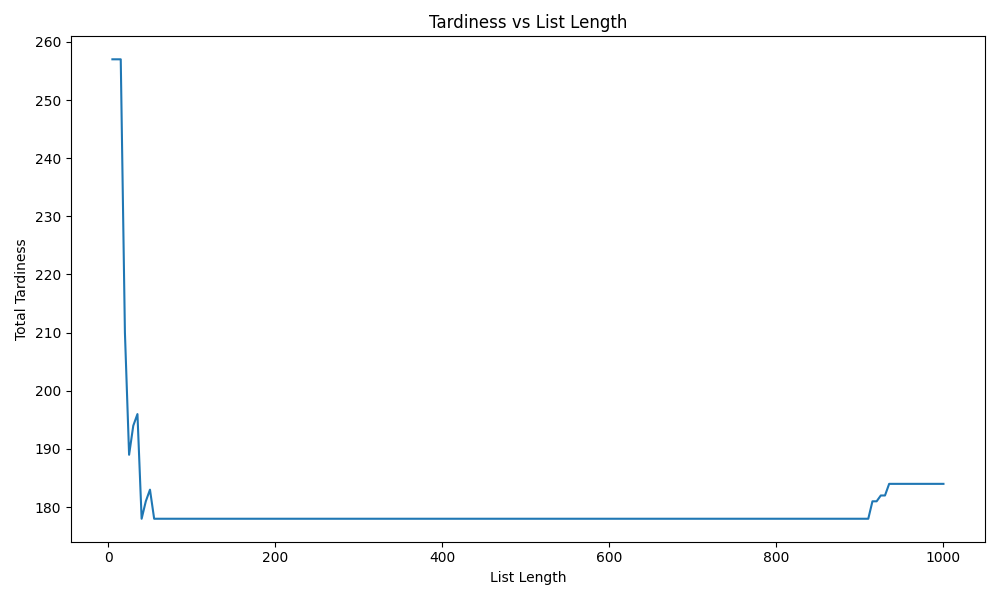
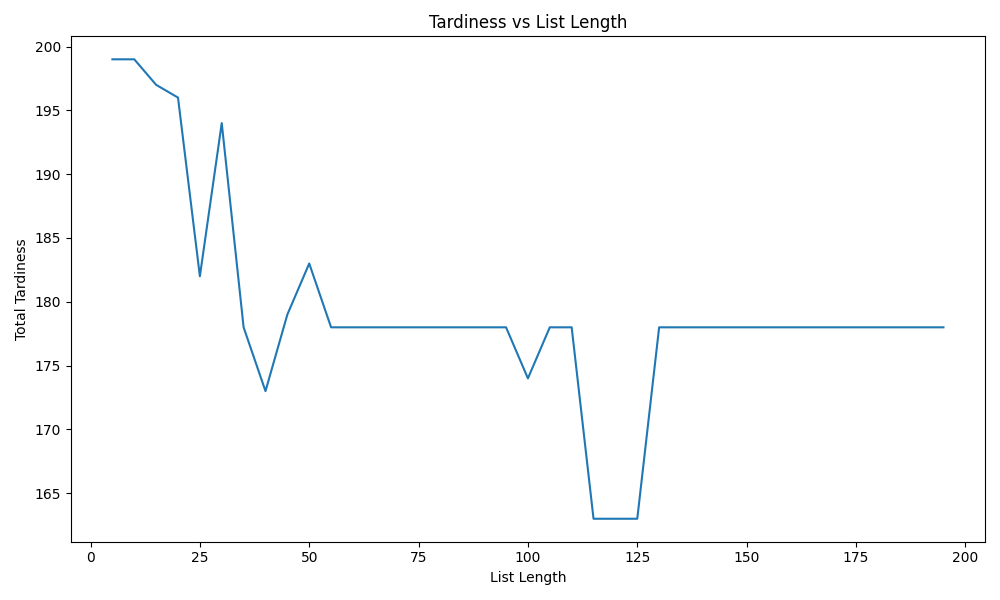
feat: change tabu parameters for plot

diff --git a/src/tabu.py b/src/tabu.py
@@ -142,13 +142,13 @@ class TabuGraph(Graph):
         self.schedule = best_schedule
 
     def plot_schedule(self) -> None:
-        list_lengths, tolerances = [(i * 5) for i in range(1, 201)], [(i) for i in range(1, 101)]
+        list_lengths, tolerances = [(i * 5) for i in range(1, 40)], [(i) for i in range(1, 101)]
         initial_schedule = self.schedule.copy()
 
         list_length_tardiness, tolerance_tardiness = [], []
 
         for list_length in list_lengths:
-            self.schedule_jobs(list_length=list_length, max_iterations=1000, tolerance=20)
+            self.schedule_jobs(list_length=list_length, max_iterations=1000, tolerance=10)
             list_length_tardiness.append(self.__calculate_tardiness_sum(self.schedule))
             self.schedule = initial_schedule.copy()
 
